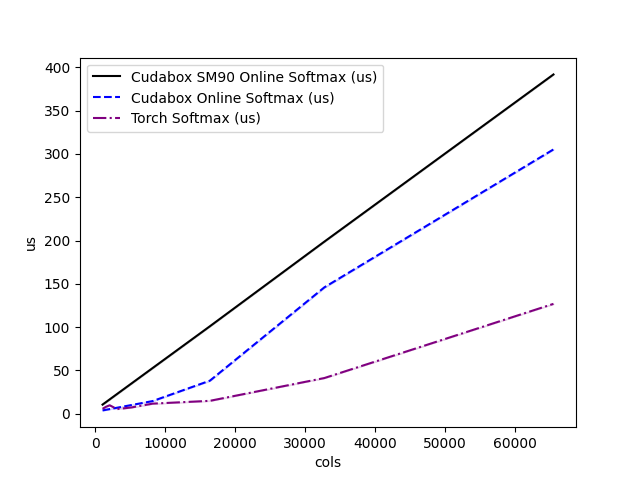
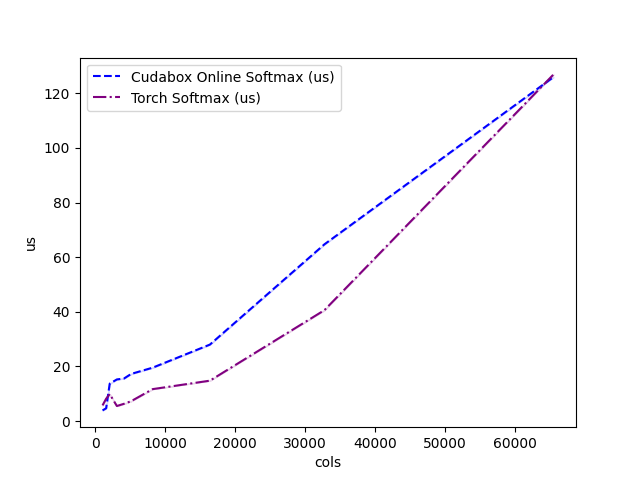
elementwise: added cluster reduce version of online softmax

diff --git a/benchmarks/bench_online_softmax.py b/benchmarks/bench_online_softmax.py
@@ -1,10 +1,10 @@
+import argparse
 import os
 
 import torch
 import triton
 import triton.testing
 from cudabox.elementwise import online_softmax as cudabox_online_softmax
-from cudabox.elementwise import sm90_online_softmax as cudabox_sm90_online_softmax
 from utils import DEFAULT_DEVICE, DEFAULT_DTYPE, run_benchmark
 
 # Rows (batch) are swept across separate plots; columns are swept on the
@@ -18,29 +18,36 @@ def torch_softmax(x):
 
 
 LINE_VALS = [
-    "cudabox_sm90_online_softmax",
     "cudabox_online_softmax",
     "torch_softmax",
 ]
 LINE_NAMES = [
-    "Cudabox SM90 Online Softmax",
     "Cudabox Online Softmax",
     "Torch Softmax",
 ]
 STYLES = [
-    ("black", "-"),
     ("blue", "--"),
     ("purple", "-."),
 ]
+
+# Populated when --sm90 is passed.
+INCLUDE_SM90 = False
 
 
 def _run(rows: int, cols: int, provider: str):
     input = torch.randn((rows, cols), dtype=DEFAULT_DTYPE, device=DEFAULT_DEVICE)
     FN_MAP = {
-        "cudabox_sm90_online_softmax": lambda: cudabox_sm90_online_softmax(input),
         "cudabox_online_softmax": lambda: cudabox_online_softmax(input),
         "torch_softmax": lambda: torch_softmax(input),
     }
+    if INCLUDE_SM90:
+        from cudabox.elementwise import (
+            sm90_online_softmax as cudabox_sm90_online_softmax,
+        )
+
+        FN_MAP["cudabox_sm90_online_softmax"] = lambda: cudabox_sm90_online_softmax(
+            input
+        )
     fn = FN_MAP[provider]
     return run_benchmark(fn)
 
@@ -63,6 +70,20 @@ def _make_benchmark(rows: int) -> triton.testing.Benchmark:
 
 if __name__ == "__main__":
     import matplotlib.pyplot as plt
+
+    parser = argparse.ArgumentParser(description="Benchmark online softmax kernels.")
+    parser.add_argument(
+        "--sm90",
+        action="store_true",
+        help="Include the SM90 online softmax kernel in the benchmark.",
+    )
+    args = parser.parse_args()
+
+    if args.sm90:
+        INCLUDE_SM90 = True
+        LINE_VALS.insert(0, "cudabox_sm90_online_softmax")
+        LINE_NAMES.insert(0, "Cudabox SM90 Online Softmax")
+        STYLES.insert(0, ("black", "-"))
 
     out_dir = os.path.join(os.path.dirname(__file__), "results", "online_softmax")
     os.makedirs(out_dir, exist_ok=True)
